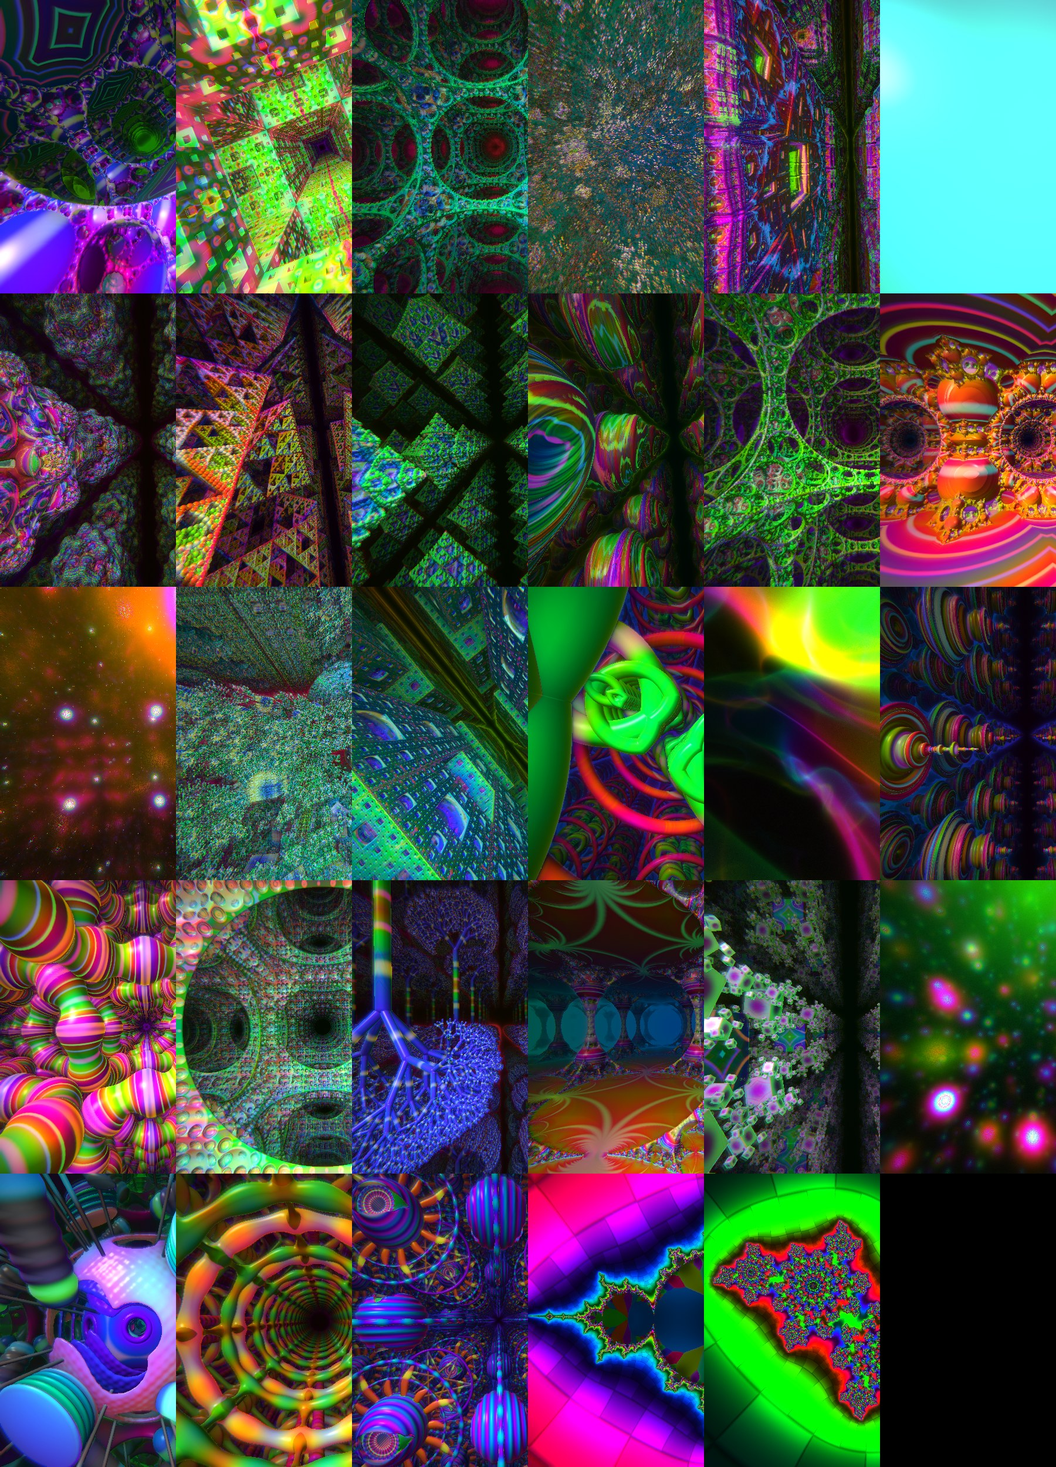
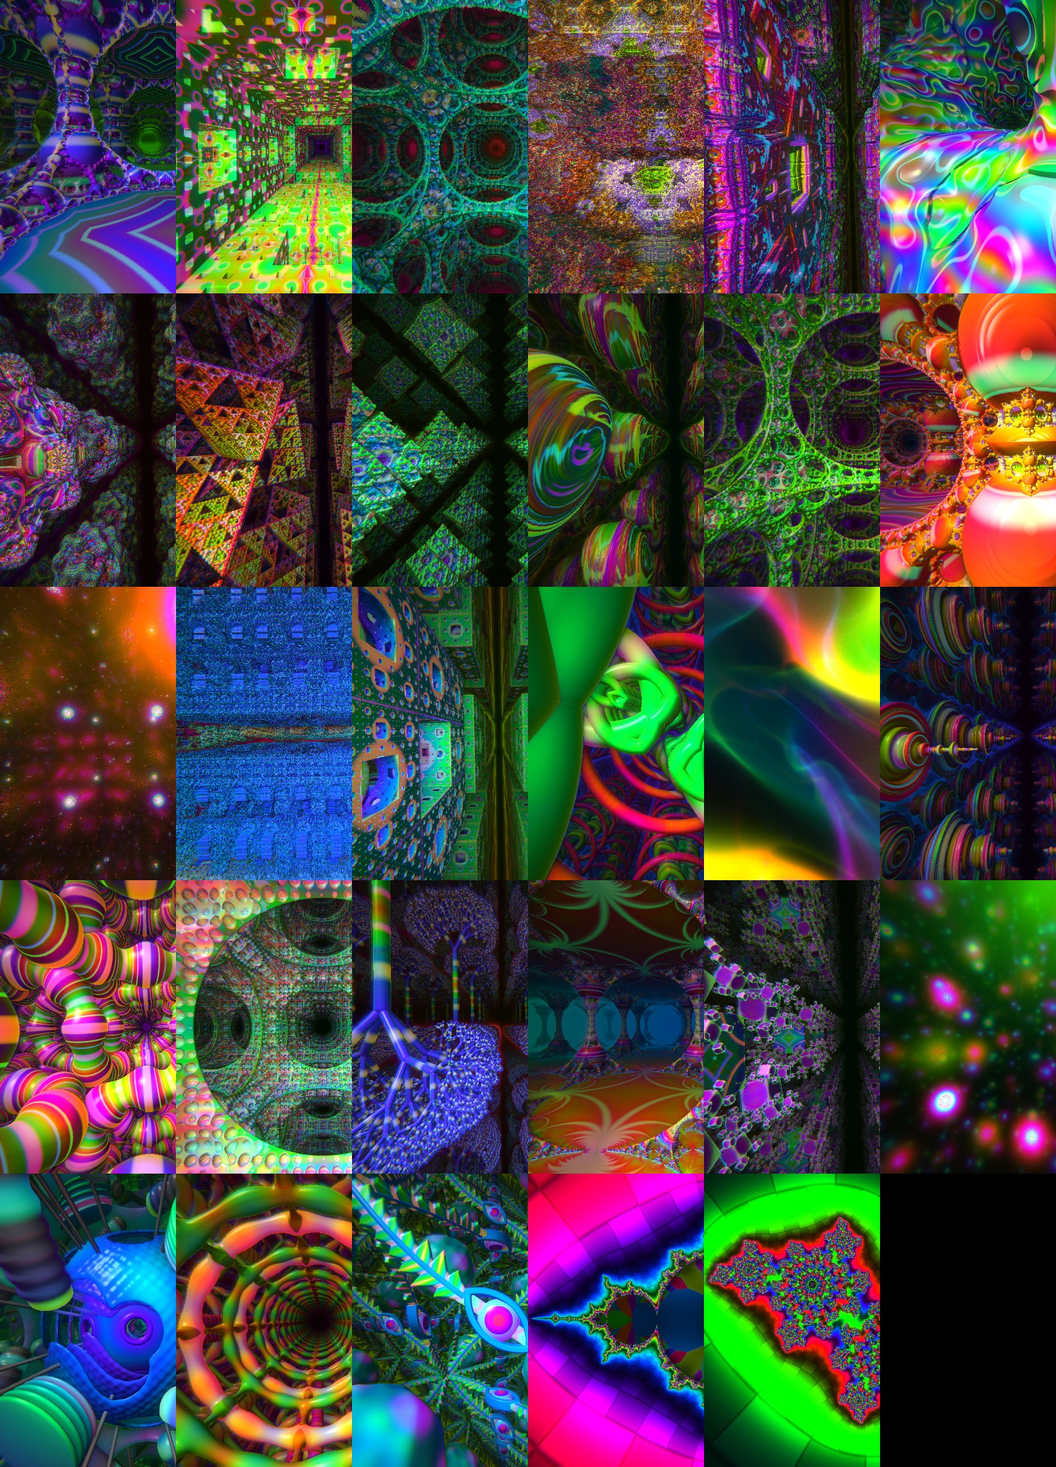
Seer: rebuilt as a net of flame-fringed strands with eyes set into them and a ball of cloud in every gap
The first version was a lattice of eyeballs in suns; this follows the pictures it is in homage to more
closely. The Vision palette is now deep blue to pale silver-blue.

Claude-Session: https://claude.ai/code/session_01P6VPRAEHB2YHcMwxJHigoo

diff --git a/js/worlds.js b/js/worlds.js
@@ -868,86 +868,75 @@ export const WORLDS=[
   if(dh<d)d=dh;
   return .75*d;
  }},
-/* Eyes, in homage to the visionary paintings on the band Tool's records and stage (Alex Grey's among them): a lattice
-   of eyes that look both ways, each between two lids, in a sun of seven long flames and seven short ones with a
-   beaded halo round their tips. The pupil is a hole right through, so a row of eyes is seen through the eye in
-   front. Three eyes to a cell of 3.2, one facing along each axis, and the cell is mirror-tiled, so the sevenfold suns
-   need not match the cube. An eye is worked out only within a quarter of a unit of the ball that holds it. The morph
-   opens the pupil as it narrows the lids, and sways the flames. Three quarters of the distance is used, since the
-   flames' sway and the beads make it a little too large in places. */
-{id:"seer",name:"Seer",hue:.6,fog:.1,maxd:26,speed:1.0,start:[1.6,1.6,.5],
- period:function(){return [6.4,6.4,6.4]},
+/* A net, in homage to the visionary paintings on the band Tool's records and stage (Alex Grey's among them): strands
+   fringed with flames join into a net that fills space, each strand has an almond eye set into its middle, looking out
+   both ways, and every large gap in the net holds a ball of cloud. The strands are the twelve ways from each place of
+   a face-centred lattice to its neighbours, so in any flat cut along the axes the net is diamonds. Space is folded
+   into one corner of a cube of 2.2, where there are six strands, two lying in each direction of flat; of each two only
+   the nearer is worked out, and the distance is held to what the other could be. A strand is worked out as a flat
+   shape (u along it, v across, w out of its flat). The morph lengthens the flames and opens the pupils. The flames'
+   teeth are steep, so little more than a third of their distance is used. */
+{id:"seer",name:"Seer",hue:0,fog:.11,maxd:22,speed:.9,start:[1.1,1.1,.7],
+ period:function(){return [4.4,4.4,4.4]},
  glsl:[
  "vec4 srC;",
- "float srFl(vec3 f,float tip){", /* one flame: a flat tongue from the lids out to tip, bent to one side */
- "  float s=clamp((f.x-0.45)/(tip-0.45),0.0,1.0);",
- "  return (length(vec3(f.x-clamp(f.x,0.45,tip),f.y-0.13*(tip-0.45)*(0.7+0.5*uM)*s*sin(4.712389*s),1.8*f.z))-(0.008+0.075*(1.0-s)*(0.25+1.6*s)))*0.5555556;",
- "}",
- "float srEye(vec3 l){", /* one eye about the origin, looking along z both ways; srC is its colour measures */
- "  float r=length(l);float rho=length(l.xy);float a=atan(l.y,l.x);",
- "  float pu=0.1+0.04*uM;",
- "  float d=max(max(r-0.42,pu-rho),0.8883+0.012*rho*cos(24.0*a)-length(vec3(l.xy,abs(l.z)-1.2)));", /* the ball, less the pupil, less the iris's shallow dish */
- "  float k=clamp((rho-pu)/(0.24-pu),0.0,1.0);",
- "  srC=rho<0.245?vec4(0.5+0.5*cos(24.0*a),k,0.5*k,0.32+0.5*k):vec4(0.0,0.0,0.0,0.04);",
- "  float th=atan(rho,abs(l.z));", /* the lids: a shell with hoops round the way it looks, and an almond cut through it */
- "  float e=max(abs(r-0.46-0.008*cos(24.0*th))-0.012,0.5-length(vec2(l.x,abs(l.y)+0.3-0.04*uM)));",
- "  if(e<d){d=e;srC=vec4(0.5+0.5*cos(24.0*th),0.2,0.0,0.55+0.18*th);}",
- "  float af=mod(a+0.4487990,0.8975979)-0.4487990;float bf=af<0.0?af+0.4487990:af-0.4487990;", /* the angle folded onto one long flame, and onto the short one beside it */
- "  e=min(srFl(vec3(rho*cos(af),rho*sin(af),l.z),0.98),srFl(vec3(rho*cos(bf),rho*sin(bf),l.z),0.74));",
- "  if(e<d){d=e;srC=vec4(0.2,0.6,0.5,0.2+0.5*rho);}",
- "  e=min(length(vec2(rho-1.0,l.z))-(0.026+0.008*cos(28.0*a)),length(vec2(rho-0.74,l.z))-0.011);", /* the halo, and a thin one at the short flames' tips */
- "  if(e<d){d=e;srC=vec4(0.5+0.5*cos(28.0*a),0.1,0.0,0.8);}",
- "  return d;",
- "}",
- "float srSt(vec3 l){", /* a star of seven points in a ring: each of its seven lines joins a point to the third from it */
- "  vec2 v=l.xy;float d2=1e5;float rho=length(v);",
- "  for(int i=0;i<7;i++){",
- "    v=vec2(0.6234898*v.x-0.7818315*v.y,0.7818315*v.x+0.6234898*v.y);",
- "    vec2 g=vec2(v.x-0.2003,max(abs(v.y)-0.8774,0.0));d2=min(d2,dot(g,g));",
- "  }",
- "  float d=sqrt(d2+l.z*l.z)-0.016;srC=vec4(0.3,0.5,0.4,0.3+0.5*rho);",
- "  float e=length(vec2(rho-0.9,l.z))-0.022;",
- "  if(e<d){d=e;srC=vec4(0.0,0.1,0.0,0.8);}",
+ "float srS(vec3 l){",
+ "  float au=abs(l.x),aw=abs(l.z);float av=abs(l.y-0.08*sin(2.0190*l.x));", /* the strand sways once to each side between its ends */
+ "  float tooth=1.0-abs(2.0*fract(6.5*au-4.0*av)-1.0);", /* the flames: teeth along both edges, leaning away from the eye */
+ "  float en=smoothstep(0.26,0.42,au)*(1.0-0.6*smoothstep(0.9,1.55,au))*(1.0+0.25*uM)*(0.72+0.28*cos(9.4*au));",
+ "  float g=0.37*(av-0.025-0.13*en*tooth);float h=aw-0.006-0.02*(1.0-clamp((av-0.03)*7.0,0.0,1.0));", /* thinner toward the tips */
+ "  float d=length(max(vec2(g,h),0.0))+min(max(g,h),0.0)-0.008;",
+ "  srC=vec4(tooth,0.3,0.3*en*tooth,0.36+0.3*en*tooth);",
+ "  float e=max(length(vec2(av,aw))-0.04,0.3-au)*0.95;", /* the rib down the middle */
+ "  if(e<d){d=e;srC=vec4(0.0,0.2,0.0,0.5);}",
+ "  av=abs(l.y);float alm=length(vec2(au,av+0.225))-0.375;", /* the eye: lids round an almond, and a flattened ball inside it */
+ "  e=length(max(vec2(abs(alm)-0.012,aw-0.05),0.0))-0.012;",
+ "  if(e<d){d=e;srC=vec4(0.2,0.2,0.0,0.45);}",
+ "  float rho=length(l.xy);float pu=0.04+0.012*uM;",
+ "  e=max((length(vec3(l.xy,1.7*l.z))-0.155)*0.5882353,alm);",
+ "  if(e<d){d=e;srC=rho<pu?vec4(0.0):(rho<0.1?vec4(0.0,rho*5.0,0.0,0.1+2.2*rho):vec4(0.0,0.0,0.0,0.62));}",
  "  return d;",
  "}",
  "float map(vec3 p){",
- "  vec3 q=abs(mod(p+1.6,6.4)-3.2)-1.6;",
- "  vec3 l2=vec3(q.y,q.z,abs(q.x)-1.6);vec3 l3=vec3(q.z,q.x,abs(q.y)-1.6);vec3 l4=vec3(q.xy,abs(q.z)-1.6);",
- "  float d=length(q)-1.06;float e;vec4 c=vec4(0.0);",
- "  if(d<0.25){d=srEye(q);c=srC;}",
- "  e=length(l2)-1.06;if(e<0.25)e=srEye(l2);if(e<d){d=e;c=srC;}",
- "  e=length(l3)-1.06;if(e<0.25)e=srEye(l3);if(e<d){d=e;c=srC;}",
- "  e=length(l4)-0.95;if(e<0.25)e=srSt(l4);if(e<d){d=e;c=srC;}",
- "  orb=c;return 0.75*d;",
+ "  vec3 q=abs(mod(p+2.2,4.4)-2.2);float e;",
+ "  float a=(q.x+q.y-2.2)*0.7071068;float b=(q.x-q.y)*0.7071068;",
+ "  float d=q.z<1.1?srS(vec3(a,b,q.z)):srS(vec3(b,a,q.z-2.2));vec4 c=srC;",
+ "  a=(q.z+q.x-2.2)*0.7071068;b=(q.z-q.x)*0.7071068;",
+ "  e=q.y<1.1?srS(vec3(a,b,q.y)):srS(vec3(b,a,q.y-2.2));if(e<d){d=e;c=srC;}",
+ "  a=(q.y+q.z-2.2)*0.7071068;b=(q.y-q.z)*0.7071068;",
+ "  e=q.x<1.1?srS(vec3(a,b,q.x)):srS(vec3(b,a,q.x-2.2));if(e<d){d=e;c=srC;}",
+ "  d=min(d,min(abs(q.x-1.1),min(abs(q.y-1.1),abs(q.z-1.1)))+1.0);", /* the strands not worked out are at least this far */
+ "  e=min(min(length(q),length(q-vec3(2.2,2.2,0.0))),min(length(q-vec3(2.2,0.0,2.2)),length(q-vec3(0.0,2.2,2.2))))-0.09;", /* a knot where strands meet */
+ "  if(e<d){d=e;c=vec4(0.0,0.3,0.0,0.55);}",
+ "  vec3 k=q-vec3(2.2,0.0,0.0);vec3 k2=q-vec3(0.0,2.2,0.0);if(dot(k2,k2)<dot(k,k))k=k2;", /* the ball of cloud in the nearest large gap */
+ "  k2=q-vec3(0.0,0.0,2.2);if(dot(k2,k2)<dot(k,k))k=k2;k2=q-vec3(2.2);if(dot(k2,k2)<dot(k,k))k=k2;",
+ "  float bm=cos(8.0*k.x)*cos(8.0*k.y)*cos(8.0*k.z);float bn=cos(19.0*k.x)*cos(19.0*k.y)*cos(19.0*k.z);",
+ "  e=(length(k)-0.62-0.035*bm-0.012*bn)*0.6;",
+ "  if(e<d){d=e;c=vec4(0.15*bn,0.0,0.0,0.6+0.05*bm);}",
+ "  orb=c;return 0.9*d;",
  "}"],
  de:function(x,y,z,m){
-  function fl(fx,fy,fz,tip){
-    var s=Math.max(0,Math.min(1,(fx-.45)/(tip-.45)));
-    return (Math.hypot(fx-Math.max(.45,Math.min(tip,fx)),fy-.13*(tip-.45)*(.7+.5*m)*s*Math.sin(4.712389*s),1.8*fz)-(.008+.075*(1-s)*(.25+1.6*s)))*.5555556;
+  function ss(a,b,v){v=Math.max(0,Math.min(1,(v-a)/(b-a)));return v*v*(3-2*v)}
+  function st(u,v,w){
+    var au=Math.abs(u),av=Math.abs(v-.08*Math.sin(2.0190*u)),aw=Math.abs(w),t=6.5*au-4*av;
+    var tooth=1-Math.abs(2*(t-Math.floor(t))-1),en=ss(.26,.42,au)*(1-.6*ss(.9,1.55,au))*(1+.25*m)*(.72+.28*Math.cos(9.4*au));
+    var g=.37*(av-.025-.13*en*tooth),h=aw-.006-.02*(1-Math.max(0,Math.min(1,(av-.03)*7)));
+    var d=Math.hypot(Math.max(g,0),Math.max(h,0))+Math.min(Math.max(g,h),0)-.008;
+    d=Math.min(d,Math.max(Math.hypot(av,aw)-.04,.3-au)*.95);
+    av=Math.abs(v);var alm=Math.hypot(au,av+.225)-.375;
+    d=Math.min(d,Math.hypot(Math.max(Math.abs(alm)-.012,0),Math.max(aw-.05,0))-.012);
+    return Math.min(d,Math.max((Math.hypot(u,v,1.7*w)-.155)*.5882353,alm));
   }
-  function eye(lx,ly,lz){
-    var r=Math.hypot(lx,ly,lz),rho=Math.hypot(lx,ly),a=Math.atan2(ly,lx),pu=.1+.04*m,th=Math.atan2(rho,Math.abs(lz));
-    var d=Math.max(r-.42,pu-rho,.8883+.012*rho*Math.cos(24*a)-Math.hypot(lx,ly,Math.abs(lz)-1.2));
-    d=Math.min(d,Math.max(Math.abs(r-.46-.008*Math.cos(24*th))-.012,.5-Math.hypot(lx,Math.abs(ly)+.3-.04*m)));
-    var af=md(a+.4487990,.8975979)-.4487990,bf=af<0?af+.4487990:af-.4487990;
-    d=Math.min(d,fl(rho*Math.cos(af),rho*Math.sin(af),lz,.98),fl(rho*Math.cos(bf),rho*Math.sin(bf),lz,.74));
-    return Math.min(d,Math.hypot(rho-1,lz)-(.026+.008*Math.cos(28*a)),Math.hypot(rho-.74,lz)-.011);
-  }
-  function star(lx,ly,lz){
-    var d2=1e5,rho=Math.hypot(lx,ly),i,t,gx,gy;
-    for(i=0;i<7;i++){
-      t=.6234898*lx-.7818315*ly;ly=.7818315*lx+.6234898*ly;lx=t;
-      gx=lx-.2003;gy=Math.max(Math.abs(ly)-.8774,0);d2=Math.min(d2,gx*gx+gy*gy);
-    }
-    return Math.min(Math.sqrt(d2+lz*lz)-.016,Math.hypot(rho-.9,lz)-.022);
-  }
-  var qx=Math.abs(md(x+1.6,6.4)-3.2)-1.6,qy=Math.abs(md(y+1.6,6.4)-3.2)-1.6,qz=Math.abs(md(z+1.6,6.4)-3.2)-1.6;
-  var ax=Math.abs(qx)-1.6,ay=Math.abs(qy)-1.6,az=Math.abs(qz)-1.6,d=Math.hypot(qx,qy,qz)-1.06,e;
-  if(d<.25)d=eye(qx,qy,qz);
-  e=Math.hypot(qy,qz,ax)-1.06;if(e<.25)e=eye(qy,qz,ax);if(e<d)d=e;
-  e=Math.hypot(qz,qx,ay)-1.06;if(e<.25)e=eye(qz,qx,ay);if(e<d)d=e;
-  e=Math.hypot(qx,qy,az)-.95;if(e<.25)e=star(qx,qy,az);if(e<d)d=e;
-  return .75*d;
+  var qx=Math.abs(md(x+2.2,4.4)-2.2),qy=Math.abs(md(y+2.2,4.4)-2.2),qz=Math.abs(md(z+2.2,4.4)-2.2),r=.7071068,a,b,d,e,i,k2,kx,ky,kz;
+  a=(qx+qy-2.2)*r;b=(qx-qy)*r;d=qz<1.1?st(a,b,qz):st(b,a,qz-2.2);
+  a=(qz+qx-2.2)*r;b=(qz-qx)*r;e=qy<1.1?st(a,b,qy):st(b,a,qy-2.2);if(e<d)d=e;
+  a=(qy+qz-2.2)*r;b=(qy-qz)*r;e=qx<1.1?st(a,b,qx):st(b,a,qx-2.2);if(e<d)d=e;
+  d=Math.min(d,Math.min(Math.abs(qx-1.1),Math.abs(qy-1.1),Math.abs(qz-1.1))+1);
+  d=Math.min(d,Math.min(Math.hypot(qx,qy,qz),Math.hypot(qx-2.2,qy-2.2,qz),Math.hypot(qx-2.2,qy,qz-2.2),Math.hypot(qx,qy-2.2,qz-2.2))-.09);
+  var G=[[2.2,0,0],[0,2.2,0],[0,0,2.2],[2.2,2.2,2.2]],best=1e9;
+  for(i=0;i<4;i++){a=qx-G[i][0];b=qy-G[i][1];e=qz-G[i][2];k2=a*a+b*b+e*e;if(k2<best){best=k2;kx=a;ky=b;kz=e;}}
+  d=Math.min(d,(Math.sqrt(best)-.62-.035*Math.cos(8*kx)*Math.cos(8*ky)*Math.cos(8*kz)-.012*Math.cos(19*kx)*Math.cos(19*ky)*Math.cos(19*kz))*.6);
+  return .9*d;
  }},
 {id:"mzoom",name:"Mandelbrot zoom",hue:.55,fog:0,maxd:1,speed:.5,start:[.3,.2,.1],volume:true,flat:true,
  period:function(){return [4,4,4]},glsl:[],de:function(){return .2}},

diff --git a/js/journey.js b/js/journey.js
@@ -269,7 +269,7 @@ BUILTIN_T=[
  /* the Biomech world and what goes with it: near-grey palettes, the ribbed and chrome surfaces, the Airbrush filter */
  {name:"Biomech",world:{every:80,set:["biomech","web","thicket","tangle"]},palette:{every:35,set:["Gunmetal","Tallow","Verdigris","Bone"]},mirrors:{mode:"off"},
   motion:{mode:"off"},filter:{mode:"random",every:60,set:["Airbrush","none","Noir"]},overlay:{mode:"off"},surface:{mode:"random",every:50,set:["ribbed","plain","chrome","pearl"]}},
- /* the Seer world and others of rings, wires and halls, in the Vision palette and bright ones, often through mirrors */
+ /* the Seer world and others of nets, wires and halls, in the Vision palette and bright ones, often through mirrors */
  {name:"Visions",world:{every:80,set:["seer","lattice","web","gates","temple","tangle"]},palette:{every:35,set:["Vision","Spectrum","Sunset","Orchid"]},
   mirrors:{mode:"random",every:60,none:"50",set:["6","8","12"]},motion:{mode:"off"},filter:{mode:"off"},overlay:{mode:"off"},surface:{mode:"off"}},
  {name:"Landscapes",world:{every:70},mirrors:{mode:"off"},land:{mode:"random",every:80}},

diff --git a/js/palettes.js b/js/palettes.js
@@ -23,8 +23,8 @@ export const PALETTES=[
  {name:"Gunmetal",a:[.36,.40,.41],b:[.33,.35,.34],c:[1,1,1],d:[0,.02,.05],open:true},
  {name:"Tallow",a:[.42,.36,.25],b:[.38,.32,.22],c:[1,1,1],d:[0,.03,.08],open:true},
  {name:"Verdigris",a:[.20,.35,.30],b:[.20,.30,.26],c:[1,1,1],d:[.06,0,.11],open:true},
- /* for the Seer world: gold flames through violet to deep blue. Open from the start too */
- {name:"Vision",a:[.5,.38,.42],b:[.5,.35,.42],c:[1,1,1],d:[0,.1,.5],open:true}
+ /* for the Seer world: deep blue to a pale silver-blue and back, and nothing else. Open from the start too */
+ {name:"Vision",a:[.36,.48,.72],b:[.36,.42,.28],c:[1,1,1],d:[.5,.5,.5],open:true}
 ];
 export const BASE_PALS=8;
 export const ORB_PALS=6; /* how many palettes after those are opened by finding orbs */

diff --git a/docs/ARCHITECTURE.md b/docs/ARCHITECTURE.md
@@ -314,7 +314,7 @@ Two requirements matter more than anything else when adding or changing a world:
 | Pyrite | Cubes on cubes' corners | Mirror tile `P=4`; a cube of half-size 0.5, then `p = abs(p) - 0.66`, two rotations, `p *= 2.6`; 4 levels; factor 0.9 | 8 | rotation |
 | Cell | The inside of a living cell (not a fractal) | Mirror tile `P=8`, then the point's three distances from the cell's middle sorted largest first, so each shape is written once and appears 48 times. Membrane: outside a box of half-size 3.85 with corners of radius 1.5, less a round opening of radius 1.1 along each axis, rippled. Nucleus: a shell of radius 1.5 with 26 pores (axes, edge diagonals, corner diagonals), each with a ring. Microtubules: two rods from the nucleus to the wall, 96 after the fold. Mitochondria (not folded): the cell is cut into 4x4x4 blocks of side 2, and three in four of the 24 blocks in the middle of a side hold a capsule (half-length 0.55, radius 0.28) lying one of six ways, half of them cut open along their length to show plates inside; presence, direction and cut are bits of `n(n+3) mod 61`, `n` being the block's place. Vesicles: 8x8x8 blocks of side 1, about a third of those between nucleus and wall and outside a mitochondrion's block hold a ball of one of four sizes. A block's shape keeps a margin inside its block, and the distance is capped at the distance to the block's side plus that margin, so a neighbour's shape is never overstepped; factor 0.8. Golgi: the side blocks with no mitochondrion hold five dishes, parts of balls round the cell's middle 0.125 apart, cut to a round stack of radius 0.55. Endoplasmic reticulum: one gyroid `g` at 2.6x shapes both kinds; rough is three wavy shells at about 1.83, 2.1 and 2.37 from the middle, with windows where `g > 0.45`, a clear way of radius 0.42 in to every pore and a grain of bumps (ribosomes); smooth is the tubes where `g > 1.18`, kept to where two of the three distances from the middle are over 2.2 (the cell's edges and corners). Centrosome: two barrels of nine rods at right angles at (1.67, 1.67, 1.67), one to a cell (not folded), worked out only within 0.65 of it. Inside the nucleus (worked out only there): a lumpy nucleolus of radius 0.4 off the middle, and chromatin where a gyroid at 7x is beyond 1.05 either way, with the straight ways between pores left clear. The cell's own coordinates are the world's negated near the origin (the mirror tile), which matters only when aiming a camera by hand | 16 | pore size, vesicle size |
 | Biomech | Rib cages, spines and hoses (not a fractal), in homage to H. R. Giger's biomechanical paintings | Tunnels along z, one to each 3.2 by 3.2. Two tori to the unit of z with thickness `0.085 + 0.016*cos(12a)` (segments); eight rods at radius 1.09, found by folding the angle into an eighth of a turn; a spine at each cell corner of radius `0.2 + 0.13*vb^2`, `vb = 0.5 + 0.5*cos(8*pi*z)` (four vertebrae); a tendon along each diagonal from the larger ring to the spine; a pair of hoses at each mid-edge with 10 ribs to the unit. Joined by the rounded minimum `bmS` (k 0.07 and 0.08). `0.75*d`, since the swellings are not true distances, and the spine's own distance times 0.58 before that: its discs are steep enough (radius changing about twice as fast as the place along it) that rays stepped through them and the far ones tore | 3.2, 3.2, 1 | larger ring `1.12 + 0.06m`, smaller `1.02 - 0.05m` |
-| Seer | A lattice of eyes, suns and stars (not a fractal), in homage to the visionary paintings on the band Tool's records and stage, Alex Grey's among them | Mirror tile `P=3.2`, so the sevenfold shapes need not match the cube. Three eyes to a cell, at its middle and at the middles of its x and y walls, each facing along its own axis both ways; a star at the middle of the z walls. An eye: a ball of radius 0.42, less a pupil of radius `pu` bored right through, less a shallow dish for the iris (a ball of radius 0.8883 centred 1.2 out, rippled by `0.012*rho*cos(24a)`); lids, a shell at 0.46 with hoops `0.008*cos(24*th)` and an almond cut through it (two discs of radius 0.5); seven flames to 0.98 and seven to 0.74 between them, each a tongue 1.8 times wider than thick, bent sideways by `s*sin(1.5*pi*s)`; a beaded ring at 1.0 and a thin one at 0.74. A star: the seven chords of a ring of radius 0.9 that join each point to the third from it, found by turning the place a seventh of a turn seven times. Each is worked out only within 0.25 of the ball that holds it (1.06, or 0.95 for the star); beyond that the ball's distance is used. `0.75*d` for the flames' bend and the beads | 6.4 | pupil `0.1 + 0.04m`, the lids' opening, the flames' bend `0.7 + 0.5m` |
+| Seer | A net of flame-fringed strands with eyes in them (not a fractal), in homage to the visionary paintings on the band Tool's records and stage, Alex Grey's among them | Space folded into one corner of a cube of 2.2 (`abs(mod(p + 2.2, 4.4) - 2.2)`). The strands are the edges of a face-centred lattice: in the corner, six, two lying in each direction of flat (one in the flat at 0, one in the flat at 2.2, at right angles); of each two only the nearer is worked out (`srS`), and the distance is held to 1.0 more than the distance to the flat halfway between, which the other cannot be nearer than. A strand in its own flat (`u` along it from its middle, `v` across, `w` out): it sways by `0.08*sin(2.019u)`; a ribbon of half-width 0.025 with teeth `0.13*en*tri(6.5u - 4v)` on both edges, leaning away from the middle, thinning toward their tips; a rib of radius 0.04; in the middle an eye, lids round an almond (two discs of radius 0.375, 0.6 long and 0.3 high) and a ball flattened 1.7 times inside it, with iris and pupil by colour. A knot of radius 0.09 where twelve strands meet; in each of the lattice's large gaps a ball of radius 0.62 with bumps of two sizes (`cos` products, even, so the fold does not show). The teeth's distance times 0.37 (their slope reaches about 2.7), the cloud's 0.6, the whole 0.9 | 4.4 | flames' length `1 + 0.25m`, pupil `0.04 + 0.012m` |
 | Nebula | Volumetric Kaliset | `p = abs(p)/dot(p,p) - f`, 10 iterations, accumulating `|len - prevLen|`; cubed | 2 | `f = 0.55 + 0.03m` |
 | Aurora | Volumetric warped gyroid | Three octaves of `p += A*sin(p.yzx*F + t)`, then `exp(-k*|gyroid|)` ribbons | 2π | ribbon width |
 | Lanterns | Volumetric lights | One soft light to a unit cell and one to a half cell, each off its cell's middle by a hash of the cell (mod 8) and swaying with the clock, faded toward the cell's sides so that none is cut; plus a faint gyroid haze | 8 | size of the larger lights |

diff --git a/README.md b/README.md
@@ -66,7 +66,7 @@ The app is one page, one stylesheet and a folder of JavaScript modules. There is
 - **Kaleidoscope mirrors**: off, or 3, 4, 6, 8 or 12 segments.
 - **14 colour palettes.** Eight are available from the start (one of them, Wood, is browns). Six are unlocked by finding orbs.
 - **A picture beside every name.** The world, palette, motion, filter, overlay, mirrors, FX and landscape buttons each open a grid of small pictures that show what each choice looks like.
-- **Seer**, a world in homage to the visionary paintings on the band Tool's records and stage, Alex Grey's among them: an endless lattice of eyes that look both ways, each between two lids in a sun of fourteen flames with a beaded halo, and seven-pointed stars in rings in the spaces between. The pupils are holes, so a row of eyes can be seen through the eye in front, and flown through. The morph opens the pupils, narrows the lids and sways the flames. Nothing of theirs is copied; it is built from the kinds of thing those pictures are full of. With it come the **Vision** palette (gold through violet to deep blue, open from the start) and the **Visions** journey template.
+- **Seer**, a world in homage to the visionary paintings on the band Tool's records and stage, Alex Grey's among them: a net of strands fringed with flames that fills space, with an almond eye set into the middle of every strand, looking out both ways, and a pale ball of cloud in every large gap. Cut flat along the axes the net is diamonds. The morph lengthens the flames and opens the pupils. Nothing of theirs is copied; it is built from the kinds of thing those pictures are full of. With it come the **Vision** palette (deep blue to pale silver-blue and nothing else, open from the start) and the **Visions** journey template.
 - **6 feedback motions, 23 filters, 10 overlays and 8 transitions**, in the style of the MilkDrop music visualiser.
 - **Music reactivity** from a built-in track, your own audio file, another browser tab such as Spotify or YouTube, the microphone, or a tapped tempo.
 - **Journey**, an autopilot that flies for you and changes the world, palette, mirrors, motion, filter, overlay, surface, land, packing, pulse and shapes over time. You control what it may change with templates.
@@ -347,7 +347,7 @@ A **template** says what Journey may change and how often. For each of world, pa
 
 A **set** plays several templates in turn, each for a number of minutes.
 
-Built-in templates: Classic, Everything, Clean flight, MilkDrop, Dance party, Kaleidoscope, Calm, Biomech, Visions, Landscapes, Follow the music. **Dance party** is MilkDrop's motions and filters behind the dancing figures: its overlay is always the Dancer, the Chorus line or the Dance floor, and it changes the kind of dancing every minute. The moves are sorted into seven kinds (groove, disco, sixties, hiphop, party, world, rave), and a template's **Dance style** row says which kinds the figures may dance. **Biomech** keeps to the Biomech world and three others made of rods and webs (Web, Thicket, Tangle), the near-grey palettes, the ribbed, chrome, pearl and plain surfaces and the Airbrush and Noir filters, with no mirrors, motions or overlays. **Visions** keeps to the Seer world and five others of rings, wires and halls (Lattice, Web, Gates, Temple, Tangle), the Vision, Spectrum, Sunset and Orchid palettes, and mirrors of 6, 8 or 12 half the time, with no motions, filters or overlays. Built-in set: Grand tour.
+Built-in templates: Classic, Everything, Clean flight, MilkDrop, Dance party, Kaleidoscope, Calm, Biomech, Visions, Landscapes, Follow the music. **Dance party** is MilkDrop's motions and filters behind the dancing figures: its overlay is always the Dancer, the Chorus line or the Dance floor, and it changes the kind of dancing every minute. The moves are sorted into seven kinds (groove, disco, sixties, hiphop, party, world, rave), and a template's **Dance style** row says which kinds the figures may dance. **Biomech** keeps to the Biomech world and three others made of rods and webs (Web, Thicket, Tangle), the near-grey palettes, the ribbed, chrome, pearl and plain surfaces and the Airbrush and Noir filters, with no mirrors, motions or overlays. **Visions** keeps to the Seer world and five others of nets, wires and halls (Lattice, Web, Gates, Temple, Tangle), the Vision, Spectrum, Sunset and Orchid palettes, and mirrors of 6, 8 or 12 half the time, with no motions, filters or overlays. Built-in set: Grand tour.
 
 Turn Journey on and press **Edit journeys** to make your own. Built-in templates cannot be edited; use **Duplicate** to start from one. Your templates and sets are saved in your browser only. To keep a copy or move them to another device, save them as a pack; see [Library and packs](#library-and-packs).
 
